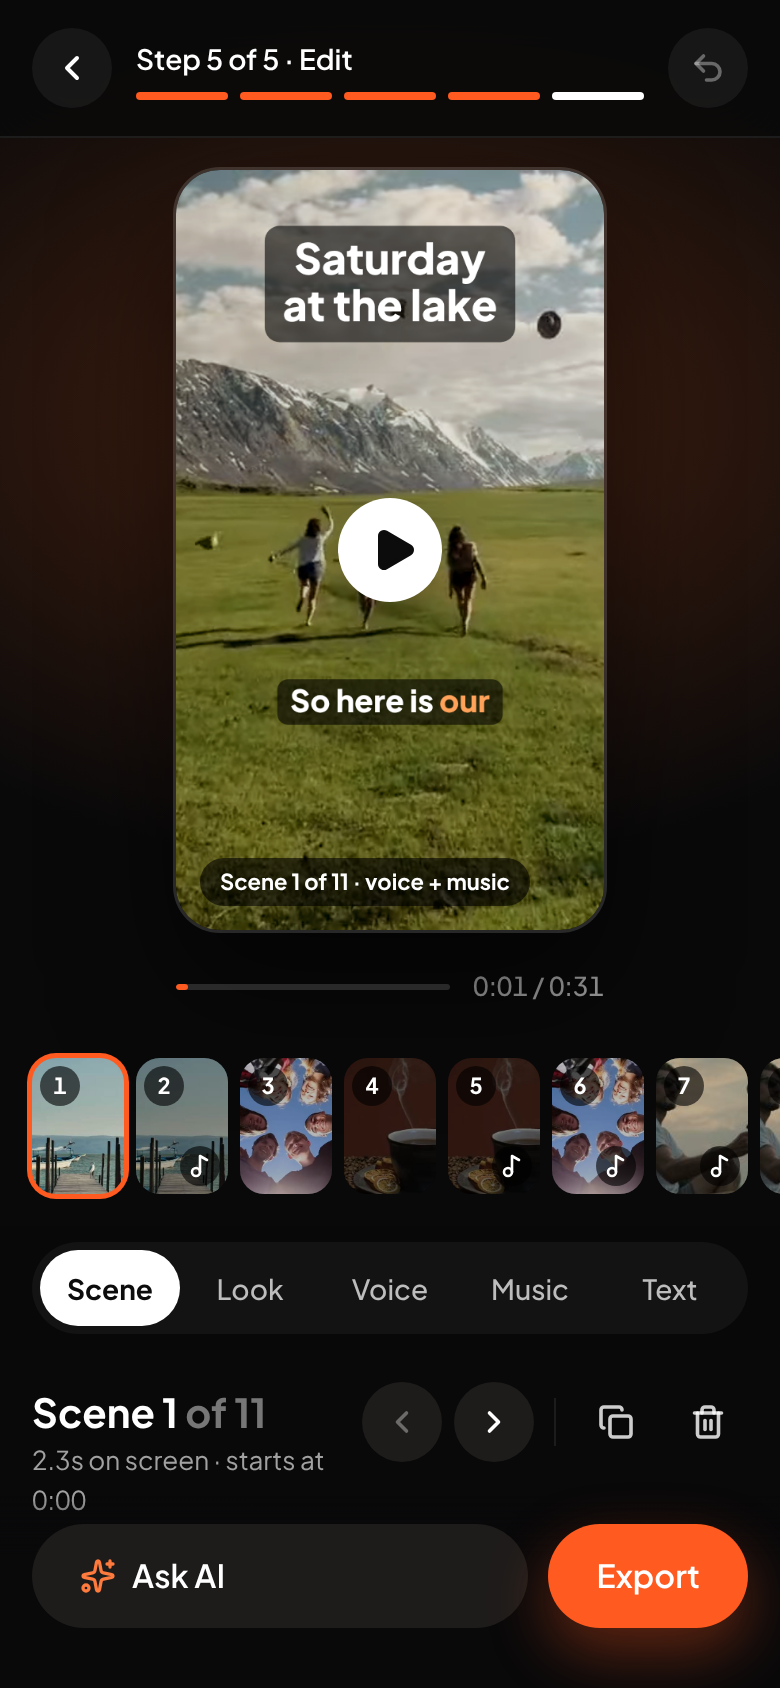
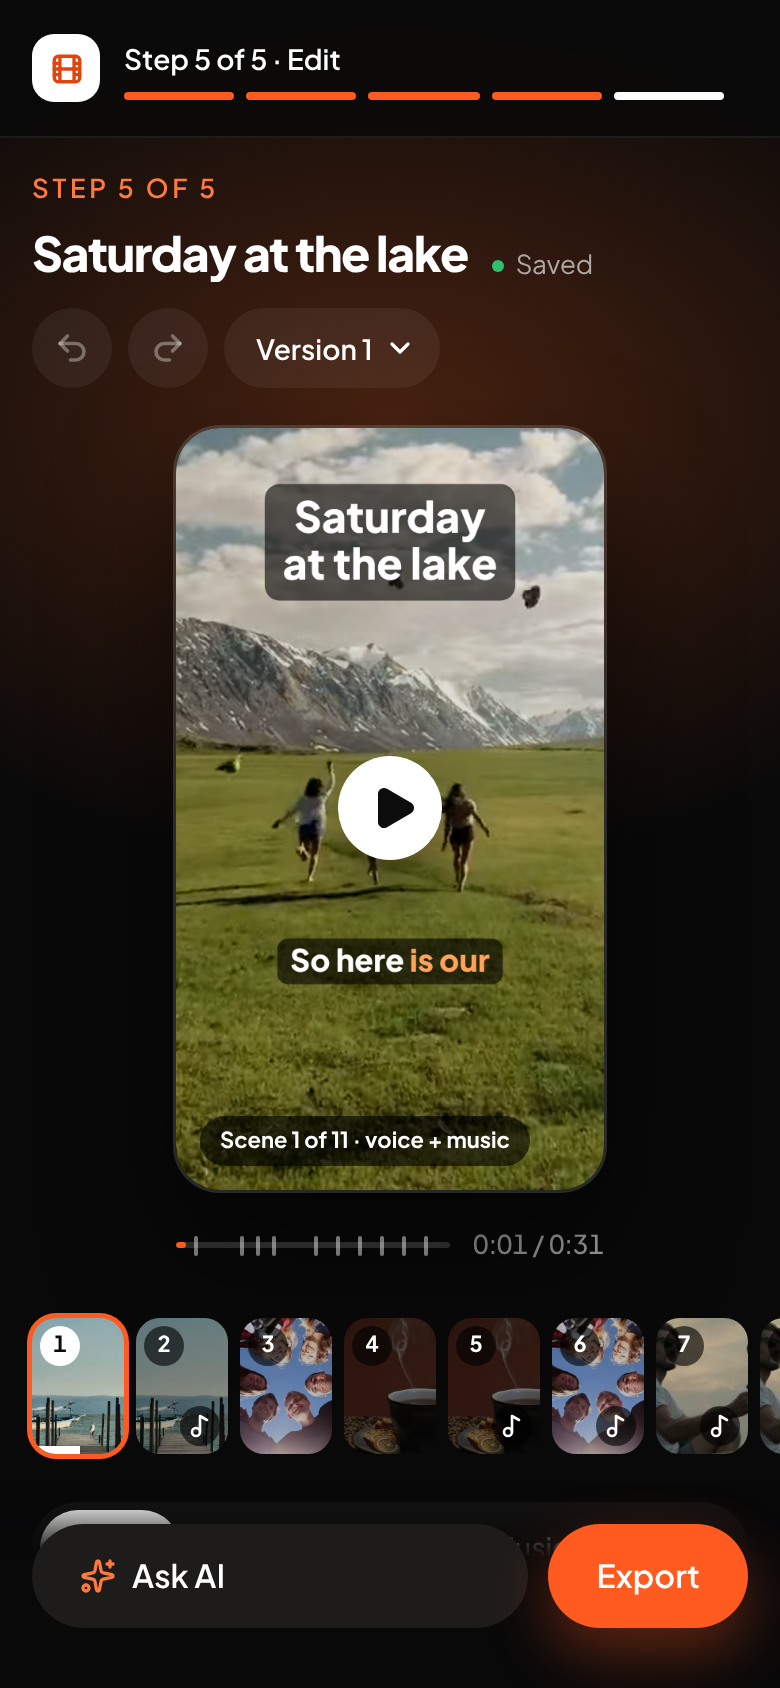
Edit: same header as the other steps (Export on the right); step heading with title, Saved, undo/redo and versions
Claude-Session: https://claude.ai/code/session_01VRtjmowHp5NhFBbEVftmHS

diff --git a/src/features/edit/EditStep.tsx b/src/features/edit/EditStep.tsx
@@ -1,13 +1,13 @@
 import { useCallback, useEffect, useState } from 'react'
-import { Navigate, useNavigate, useSearchParams } from 'react-router'
-import { ChevronLeft, Redo2, Sparkles, Undo2 } from 'lucide-react'
+import { Navigate, useSearchParams } from 'react-router'
+import { Redo2, Sparkles, Undo2, Upload } from 'lucide-react'
 import { Button } from '@/components/ui/Button'
 import { toast } from '@/components/ui/Toast'
 import { cn } from '@/lib/cn'
 import { sumShots } from '@/domain/shots'
 import { currentEdit, useProject } from '@/store/projectStore'
 import { PreviewPlayer } from '@/render/PreviewPlayer'
-import { stepPath } from '@/features/project/steps'
+import { stepPath, stepsFor } from '@/features/project/steps'
 import { useHeaderSlots } from '@/features/project/headerSlots'
 import { ExportSheet } from '@/features/export/ExportSheet'
 import { AiError } from '@/ai'
@@ -43,7 +43,6 @@ export function EditStep() {
   const plan = currentEdit(project)
   const { timeline, mix, staleMix } = useEditorData(project, plan, clips)
   const [params] = useSearchParams()
-  const navigate = useNavigate()
   const [tab, setTab] = useState<PanelId>('scene')
   const [selected, setSelected] = useState(0)
   const [seek, setSeek] = useState<{ t: number; n: number }>()
@@ -55,39 +54,21 @@ export function EditStep() {
   const onTime = useCallback((t: number) => setNow(t), [])
   const desktop = useMediaQuery('(min-width: 1024px)')
 
-  // Undo, versions and Export live in the header (Back and Undo on phones).
+  // The header is the same as on every step; Edit only adds Export on the right (desktop).
   const canUndo = !!project && project.currentEdit > 0
   const canRedo = !!project && project.currentEdit < project.edits.length - 1
   useEffect(() => {
-    if (!project) return
-    const back = project.voice.mode === 'recorded' ? 'record' : 'voice'
     useHeaderSlots.setState({
-      start: (
-        <RoundIcon label="Back" onClick={() => navigate(stepPath(project.id, back))}>
-          <ChevronLeft className="size-5" strokeWidth={2.4} />
-        </RoundIcon>
-      ),
+      start: null,
       end: desktop ? (
-        <>
-          <RoundIcon label="Undo" disabled={!canUndo} onClick={() => void undo()}>
-            <Undo2 className="size-[18px]" strokeWidth={2.4} />
-          </RoundIcon>
-          <RoundIcon label="Redo" disabled={!canRedo} onClick={() => void redo()}>
-            <Redo2 className="size-[18px]" strokeWidth={2.4} />
-          </RoundIcon>
-          <VersionMenu project={project} />
-          <Button variant="ember" className="ml-1 h-11" onClick={() => setExporting(true)} data-tour="export">
-            Export video
-          </Button>
-        </>
-      ) : (
-        <RoundIcon label="Undo" disabled={!canUndo} onClick={() => void undo()}>
-          <Undo2 className="size-[18px]" strokeWidth={2.4} />
-        </RoundIcon>
-      ),
+        <Button variant="ember" className="h-11" onClick={() => setExporting(true)} data-tour="export">
+          <Upload className="size-[18px]" strokeWidth={2.4} /> Export
+        </Button>
+      ) : null,
     })
-  }, [project, desktop, canUndo, canRedo, navigate])
+  }, [desktop])
   useEffect(() => () => useHeaderSlots.setState({ start: null, end: null }), [])
+  const steps = stepsFor(project?.voice.mode).length
 
   if (!project) return null
   if (!plan || !timeline) return <Navigate to={stepPath(project.id, 'generate')} replace />
@@ -197,6 +178,29 @@ export function EditStep() {
     <main className="relative mx-auto w-full max-w-[1280px] flex-1 px-4 pt-4 pb-36 lg:px-10 lg:pt-[22px] lg:pb-11">
       <div className="ember-wash -z-10" aria-hidden />
       <ExportSupportNotice className="mb-4" />
+      {/* Step heading, as on the other steps; undo, redo and versions on the right */}
+      <div className="mb-5 flex flex-wrap items-end justify-between gap-x-4 gap-y-3 lg:mb-6">
+        <div className="min-w-0 space-y-1.5">
+          <div className="eyebrow">
+            Step {steps} of {steps}
+          </div>
+          <div className="flex min-w-0 items-baseline gap-3">
+            <h1 className="truncate text-[24px] leading-tight font-extrabold tracking-[-0.03em] lg:text-[30px]">{project.title || 'Untitled vlog'}</h1>
+            <span className="flex shrink-0 items-center gap-1.5 text-[13px] text-muted" title="Every change is saved on this device as you go">
+              <span className="size-1.5 rounded-full bg-success" aria-hidden /> Saved
+            </span>
+          </div>
+        </div>
+        <div className="flex shrink-0 items-center gap-2">
+          <RoundIcon label="Undo" disabled={!canUndo} onClick={() => void undo()}>
+            <Undo2 className="size-[18px]" strokeWidth={2.4} />
+          </RoundIcon>
+          <RoundIcon label="Redo" disabled={!canRedo} onClick={() => void redo()}>
+            <Redo2 className="size-[18px]" strokeWidth={2.4} />
+          </RoundIcon>
+          <VersionMenu project={project} />
+        </div>
+      </div>
       {desktop && stripEl}
 
       <div className={cn(desktop && 'grid grid-cols-[360px_minmax(0,1fr)] gap-10 pt-7')}>

diff --git a/src/features/edit/VersionMenu.tsx b/src/features/edit/VersionMenu.tsx
@@ -31,10 +31,9 @@ export function VersionMenu({ project }: { project: Project }) {
         onClick={() => setOpen(!open)}
         data-testid="version-note"
         title={current.note}
-        className="flex h-10 max-w-[230px] items-center gap-1.5 rounded-full bg-white/6 pr-3 pl-4 text-[14px] transition hover:bg-white/10"
+        className="flex h-10 items-center gap-1.5 rounded-full bg-white/6 pr-3 pl-4 text-[14px] transition hover:bg-white/10"
       >
         <span className="font-semibold whitespace-nowrap">Version {current.version}</span>
-        {current.note && <span className="truncate text-muted">· {current.note.replace(/[“”]/g, '')}</span>}
         <ChevronDown className={cn('size-4 shrink-0 transition-transform', open && 'rotate-180')} strokeWidth={2.4} />
       </button>
       {open && (
